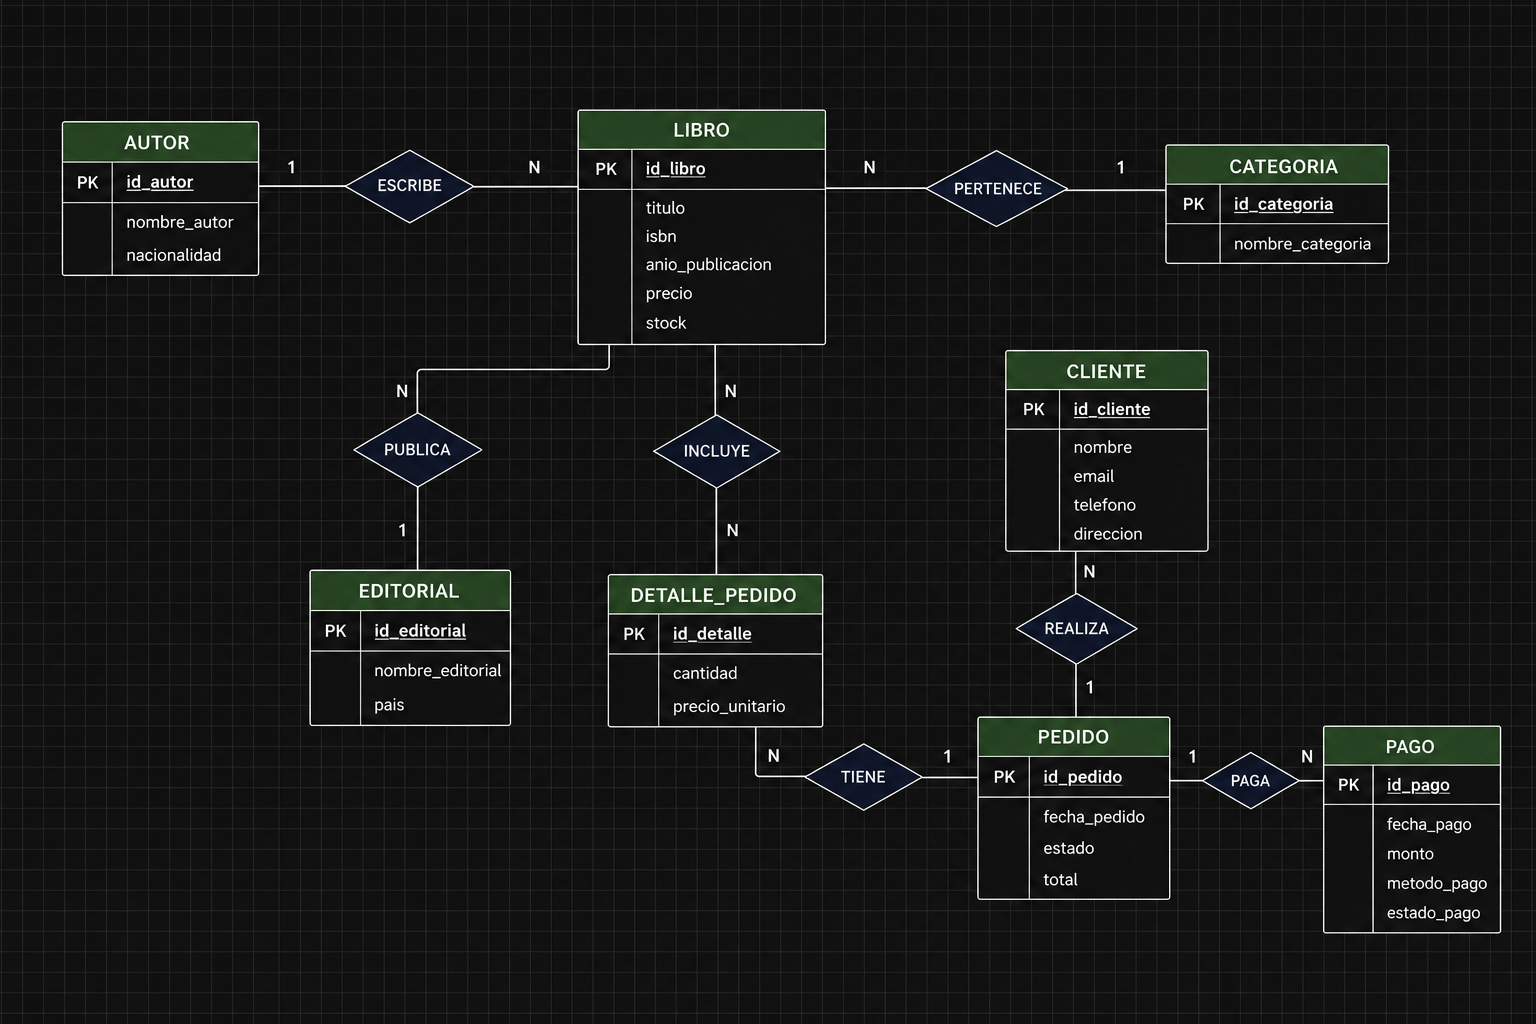
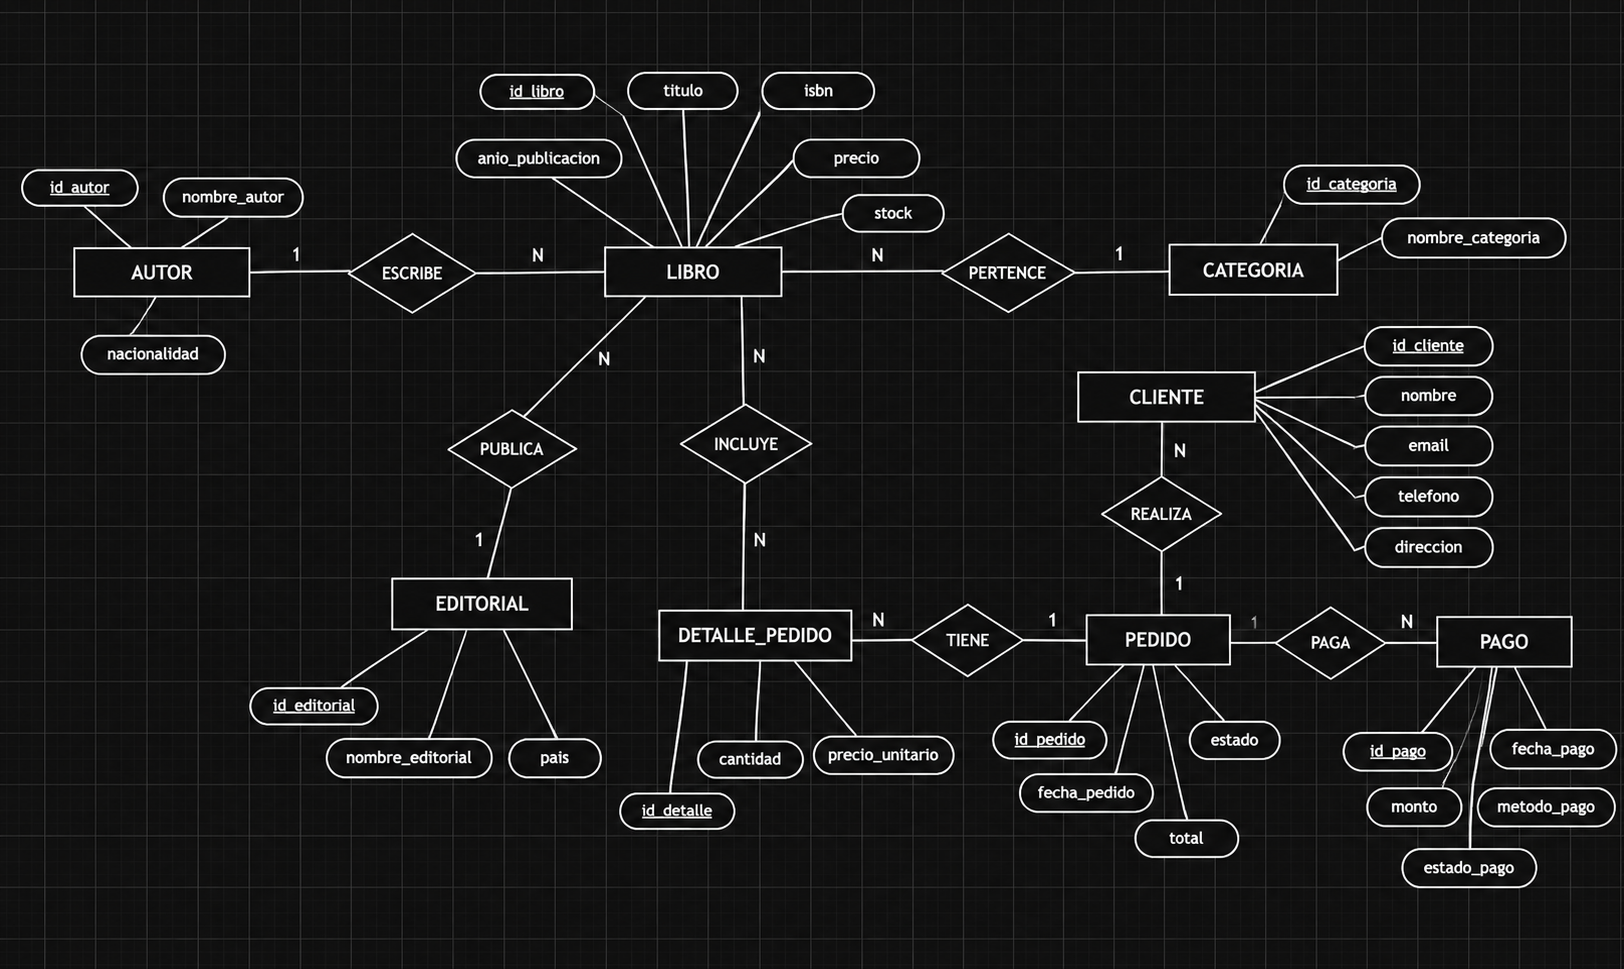
IMAGEN

diff --git a/README.md b/README.md
@@ -114,5 +114,25 @@ Monto
 ![Captura Tabla](/image/B.png)
 
 
+**Parte 3: Diagrama UML E-R**
 
+**Claves Primarias (PK)**
+Autor → id_autor
+Libro → ISBN
+Editorial → id_editorial
+Categoría → id_categoria
+Cliente → id_cliente
+Pedido → id_pedido
+Detalle_Pedido → id_detalle
+Pago → id_pago
+
+
+**Claves Foráneas (FK)**
+Libro.id_autor → Autor.id_autor
+Libro.id_editorial → Editorial.id_editorial
+Libro.id_categoria → Categoria.id_categoria
+Pedido.id_cliente → Cliente.id_cliente
+Detalle_Pedido.id_pedido → Pedido.id_pedido
+Detalle_Pedido.ISBN → Libro.ISBN
+Pago.id_pedido → Pedido.id_pedido
 
